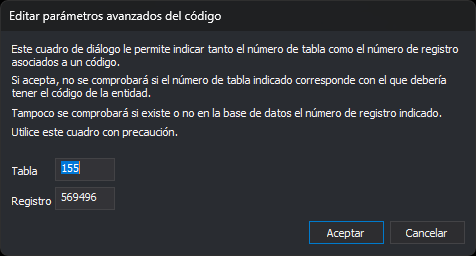
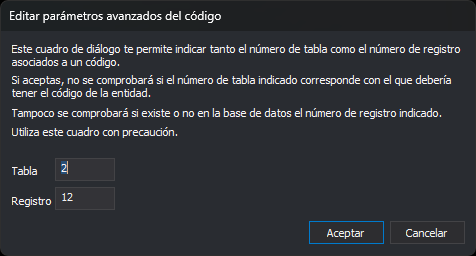
EDITAR_COD: captura nueva del cuadro de parámetros avanzados

diff --git a/src/digi3d-ai/referencia/ventana-de-dibujo/ordenes/e/editar-cod.md b/src/digi3d-ai/referencia/ventana-de-dibujo/ordenes/e/editar-cod.md
@@ -26,7 +26,7 @@ Esta orden muestra este cuadro de diálogo con los códigos de la entidad selecc
 * **Borrar**: quita el código seleccionado de la entidad. Solo está habilitado si hay un código seleccionado. La tecla Supr en la lista hace lo mismo.
 * **Añadir nuevo**: abre el cuadro de diálogo [Seleccione códigos](../../../cuadros-de-dialogo/seleccione-codigos.md) para añadir códigos a la entidad. La tecla Insert en la lista hace lo mismo. Los códigos que la entidad ya tiene no se añaden otra vez, salvo que esté activada la opción [Permitir códigos repetidos](../../../cuadros-de-dialogo/configuracion/diging/permitir-codigos-repetidos.md).
 * **Atributos**: los campos del registro de la base de datos enlazado con el código seleccionado. El título de la categoría es el nombre de la tabla. No se muestran la clave primaria ni los campos marcados como no visibles. Los campos que no se pueden editar aparecen atenuados.
-* **Avanzado**: abre el cuadro de diálogo **Editar parámetros avanzados del código**, que cambia la tabla y el ID del registro enlazado. Si el ID del código no es numérico, el botón no hace nada.
+* **Avanzado**: abre el cuadro de diálogo **Editar parámetros avanzados del código**, que cambia la tabla y el ID del registro enlazado. Si no hay ningún código seleccionado o el ID del código no es numérico, el botón no hace nada.
 * **Asignar ID**: abre el cuadro de diálogo **Asignar un ID existente**.
 * **Nuevo ID**: al aceptar, se creará un registro nuevo en la base de datos para el código seleccionado.
 * **Quitar**: desenlaza el código seleccionado de la base de datos y borra sus atributos.
@@ -43,10 +43,10 @@ Si Digi3D.AI no consigue almacenar los atributos de un código en la base de dat
 
 ![Cuadro de diálogo Editar parámetros avanzados del código](../../../../../images/editar-parametros-avanzados-del-codigo.png)
 
-Lo abre el botón **Avanzado** del editor de códigos. Cambia a mano la tabla y el registro de la base de datos enlazados con el código seleccionado.
+Lo abre el botón **Avanzado** del editor de códigos. Cambia a mano la tabla y el registro de la base de datos enlazados con el código seleccionado. El cuadro avisa de que no se comprueba si el número de tabla corresponde al código de la entidad ni si el número de registro existe en la base de datos, y termina con el texto «Utiliza este cuadro con precaución.»
 
-* **Tabla**: número de la tabla de la base de datos.
-* **Registro**: número del registro de esa tabla.
+* **Tabla**: número de la tabla de la base de datos. Al abrir el cuadro contiene la tabla actual del código.
+* **Registro**: número del registro de esa tabla. Al abrir el cuadro contiene el ID actual del código.
 * **Aceptar**: enlaza el código con esa tabla y ese registro. Digi3D.AI no comprueba que la tabla corresponda al código ni que el registro exista en la base de datos.
 * **Cancelar**: cierra el cuadro de diálogo sin cambiar el enlace.
 
